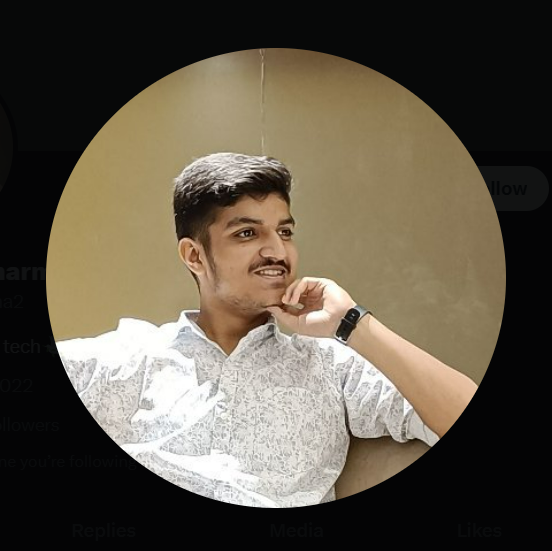
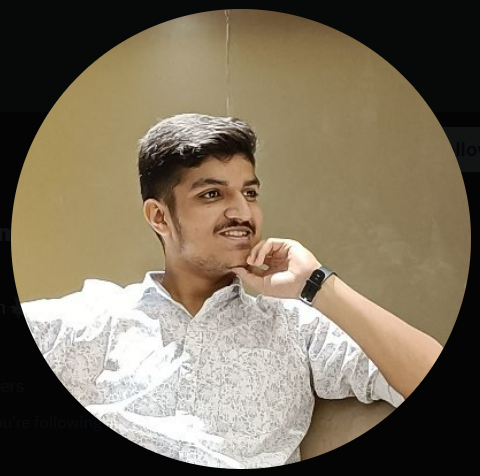
styling changes

diff --git a/index.html b/index.html
@@ -3,8 +3,11 @@
 <head>
     <meta charset="UTF-8">
     <meta name="viewport" content="width=device-width, initial-scale=1.0">
+    <title>Medhansh sharma</title>
     <script src="https://unpkg.com/htmx.org@1.9.10" integrity="sha384-D1Kt99CQMDuVetoL1lrYwg5t+9QdHe7NLX/SoJYkXDFfX37iInKRy5xLSi8nO7UC" crossorigin="anonymous"></script>
     <script src="https://cdn.tailwindcss.com"></script>
+    
+    <link rel="stylesheet" href="style.css">
 </head>
 <body>
     <div>
@@ -13,7 +16,7 @@
     <div>
         <img class="mx-auto w-40 rounded-full filter grayscale border border-gray-400" src="pic.png" />
     </div>
-   <div class="flex items-center justify-between bg-gray-100 ">
+   <navbar class="flex items-center justify-between bg-gray-100 ">
         <a href="#" class="hover:text-gray-600 pl-64" ><svg xmlns="http://www.w3.org/2000/svg" width="16" height="16" fill="currentColor" class="bi bi-mailbox" viewBox="0 0 16 16">
             <path d="M4 4a3 3 0 0 0-3 3v6h6V7a3 3 0 0 0-3-3m0-1h8a4 4 0 0 1 4 4v6a1 1 0 0 1-1 1H1a1 1 0 0 1-1-1V7a4 4 0 0 1 4-4m2.646 1A4 4 0 0 1 8 7v6h7V7a3 3 0 0 0-3-3z"/>
             <path d="M11.793 8.5H9v-1h5a.5.5 0 0 1 .5.5v1a.5.5 0 0 1-.5.5h-1a.5.5 0 0 1-.354-.146zM5 7c0 .552-.448 0-1 0s-1 .552-1 0a1 1 0 0 1 2 0"/>
@@ -27,10 +30,11 @@
         <a href="#" class="hover:text-gray-600 pr-64"><svg xmlns="http://www.w3.org/2000/svg" width="16" height="16" fill="currentColor" class="bi bi-code-slash" viewBox="0 0 16 16">
             <path d="M10.478 1.647a.5.5 0 1 0-.956-.294l-4 13a.5.5 0 0 0 .956.294zM4.854 4.146a.5.5 0 0 1 0 .708L1.707 8l3.147 3.146a.5.5 0 0 1-.708.708l-3.5-3.5a.5.5 0 0 1 0-.708l3.5-3.5a.5.5 0 0 1 .708 0m6.292 0a.5.5 0 0 0 0 .708L14.293 8l-3.147 3.146a.5.5 0 0 0 .708.708l3.5-3.5a.5.5 0 0 0 0-.708l-3.5-3.5a.5.5 0 0 0-.708 0"/>
           </svg></a>
-    </div>
+   </navbar>
 
     <section id="content" class="container mx-auto py-8">
         <div class="flex flex-col md:flex-row items-center space-y-8 md:space-y-0 md:space-x-8">
+            
             <!-- Left side -->
             <div class="md:w-1/2 pl-60">
                 <div class=" text-right max-w-md mx-auto md:mx-0 ">
@@ -58,14 +62,44 @@
                         </div>
                     </div>
                 </div>
+                <div class="max-w-md mx-auto md:mx-0 mt-8">
+                    <h2 class="text-4xl text-right md:text-right py-8">Projects</h2>
+                    <div class="space-y-8">
+                        <div class="text-right">
+                            <h3 class="text-2xl text-gray-800">Project 1</h3>
+                            <p class="text-gray-600">Short description of Project 1.</p>
+                            <div class="flex justify-end space-x-4 mt-2">
+                                <a href="#" class="text-blue-600 hover:underline">Website</a>
+                                <a href="#" class="text-blue-600 hover:underline">GitHub</a>
+                            </div>
+                        </div>
+                        <div class="text-right">
+                            <h3 class="text-2xl text-gray-800">Project 2</h3>
+                            <p class="text-gray-600">Short description of Project 2.</p>
+                            <div class="flex justify-end space-x-4 mt-2">
+                                <a href="#" class="text-blue-600 hover:underline">Website</a>
+                                <a href="#" class="text-blue-600 hover:underline">GitHub</a>
+                            </div>
+                        </div>
+                        <div class="text-right">
+                            <h3 class="text-2xl text-gray-800">Project 3</h3>
+                            <p class="text-gray-600">Short description of Project 3.</p>
+                            <div class="flex justify-end space-x-4 mt-2">
+                                <a href="#" class="text-blue-600 hover:underline">Website</a>
+                                <a href="#" class="text-blue-600 hover:underline">GitHub</a>
+                            </div>
+                        </div>
+                    </div>
+                </div>
             </div>
         
 
             <!-- Divider -->
             <div class="h-screen flex items-center border-l border-gray-500 md:block sm:hidden"></div>
+            
             <!-- Right side -->
             <div class="md:w-1/2">
-                <div class="max-w-md mx-auto md:mx-0">
+                <div class="max-w-md mx-auto md:mx-0 space-y-12">
                     <h1 class="text-4xl text-left md:text-left">Education</h1>
                         <div class="space-y-8">
                             <div class="text-left">
@@ -88,7 +122,32 @@
 
                 <div class="max-w-md mx-auto md:mx-0 mt-8">
                     <h2 class="text-4xl text-left md:text-left">Skills</h2>
-                    <p class="text-center text-gray-600 md:text-left">Your skills details here.</p>
+                    
+                        <div>    
+                            <h3 class="text-2xl text-gray-800">Programming</h3>
+                                <div class="pie animate"style="--p:80;--c:black;">4/5</div>
+                                <p class="text-center text-gray-600 md:text-left">Your skills details here.</p>
+                        </div>
+                        <div>    
+                            <h3 class="text-2xl text-gray-800">Computer Fundamentals</h3>
+                                <div class="pie animate" style="--p:75;--c:black;">3.5/5</div>
+                                <p class="text-center text-gray-600 md:text-left">Your skills details here.</p>
+                        </div>
+                        <div>    
+                            <h3 class="text-2xl text-gray-800">AI/ML</h3>
+                                <div class="pie animate" style="--p:60;--c:black;">3/5</div>
+                                <p class="text-center text-gray-600 md:text-left">Your skills details here.</p>
+                        </div>
+                        <div>    
+                            <h3 class="text-2xl text-gray-800">AI/ML</h3>
+                                <div class="pie animate" style="--p:60;--c:black;">3/5</div>
+                                <p class="text-center text-gray-600 md:text-left">Your skills details here.</p>
+                        </div>
+                        <div>    
+                            <h3 class="text-2xl text-gray-800">AI/ML</h3>
+                                <div class="pie animate" style="--p:60;--c:black;">3/5</div>
+                                <p class="text-center text-gray-600 md:text-left">Your skills details here.</p>
+                        </div>
                 </div>
             </div>
         </div>

diff --git a/style.css b/style.css
@@ -1,0 +1,57 @@
+@property --p{
+    syntax: '<number>';
+    inherits: true;
+    initial-value: 1;
+  }
+  
+  .pie {
+    --p:20;      /* the percentage */
+    --b:5px;    /* the thickness */
+    --c:darkred; /* the color */
+    --w:75px;   /* the size*/
+    
+    width:var(--w);
+    aspect-ratio:1/1;
+    position:relative;
+    margin-left: 50%;
+    display:inline-grid;
+    place-content:center;
+    font-size:25px;
+    font-weight:bold;
+    font-family:sans-serif;
+  }
+  .pie:before,
+  .pie:after {
+    content:"";
+    position:absolute;
+    border-radius:50%;
+  }
+  .pie:before {
+    inset:0;
+    background:
+      radial-gradient(farthest-side,var(--c) 98%,#0000) top/var(--b) var(--b) no-repeat,
+      conic-gradient(var(--c) calc(var(--p)*1%),#0000 0);
+    -webkit-mask:radial-gradient(farthest-side,#0000 calc(99% - var(--b)),#000 calc(100% - var(--b)));
+            mask:radial-gradient(farthest-side,#0000 calc(99% - var(--b)),#000 calc(100% - var(--b)));
+  }
+  .pie:after {
+    inset:calc(50% - var(--b)/2);
+    background:var(--c);
+    transform:rotate(calc(var(--p)*3.6deg - 90deg)) translate(calc(var(--w)/2 - 50%));
+  }
+  .animate {
+    animation:p 1s .5s both;
+  }
+  .no-round:before {
+    background-size:0 0,auto;
+  }
+  .no-round:after {
+    content:none;
+  }
+  @keyframes p{
+    from{--p:0;}
+  }
+  
+  body {
+    background:#ddd;
+  }
